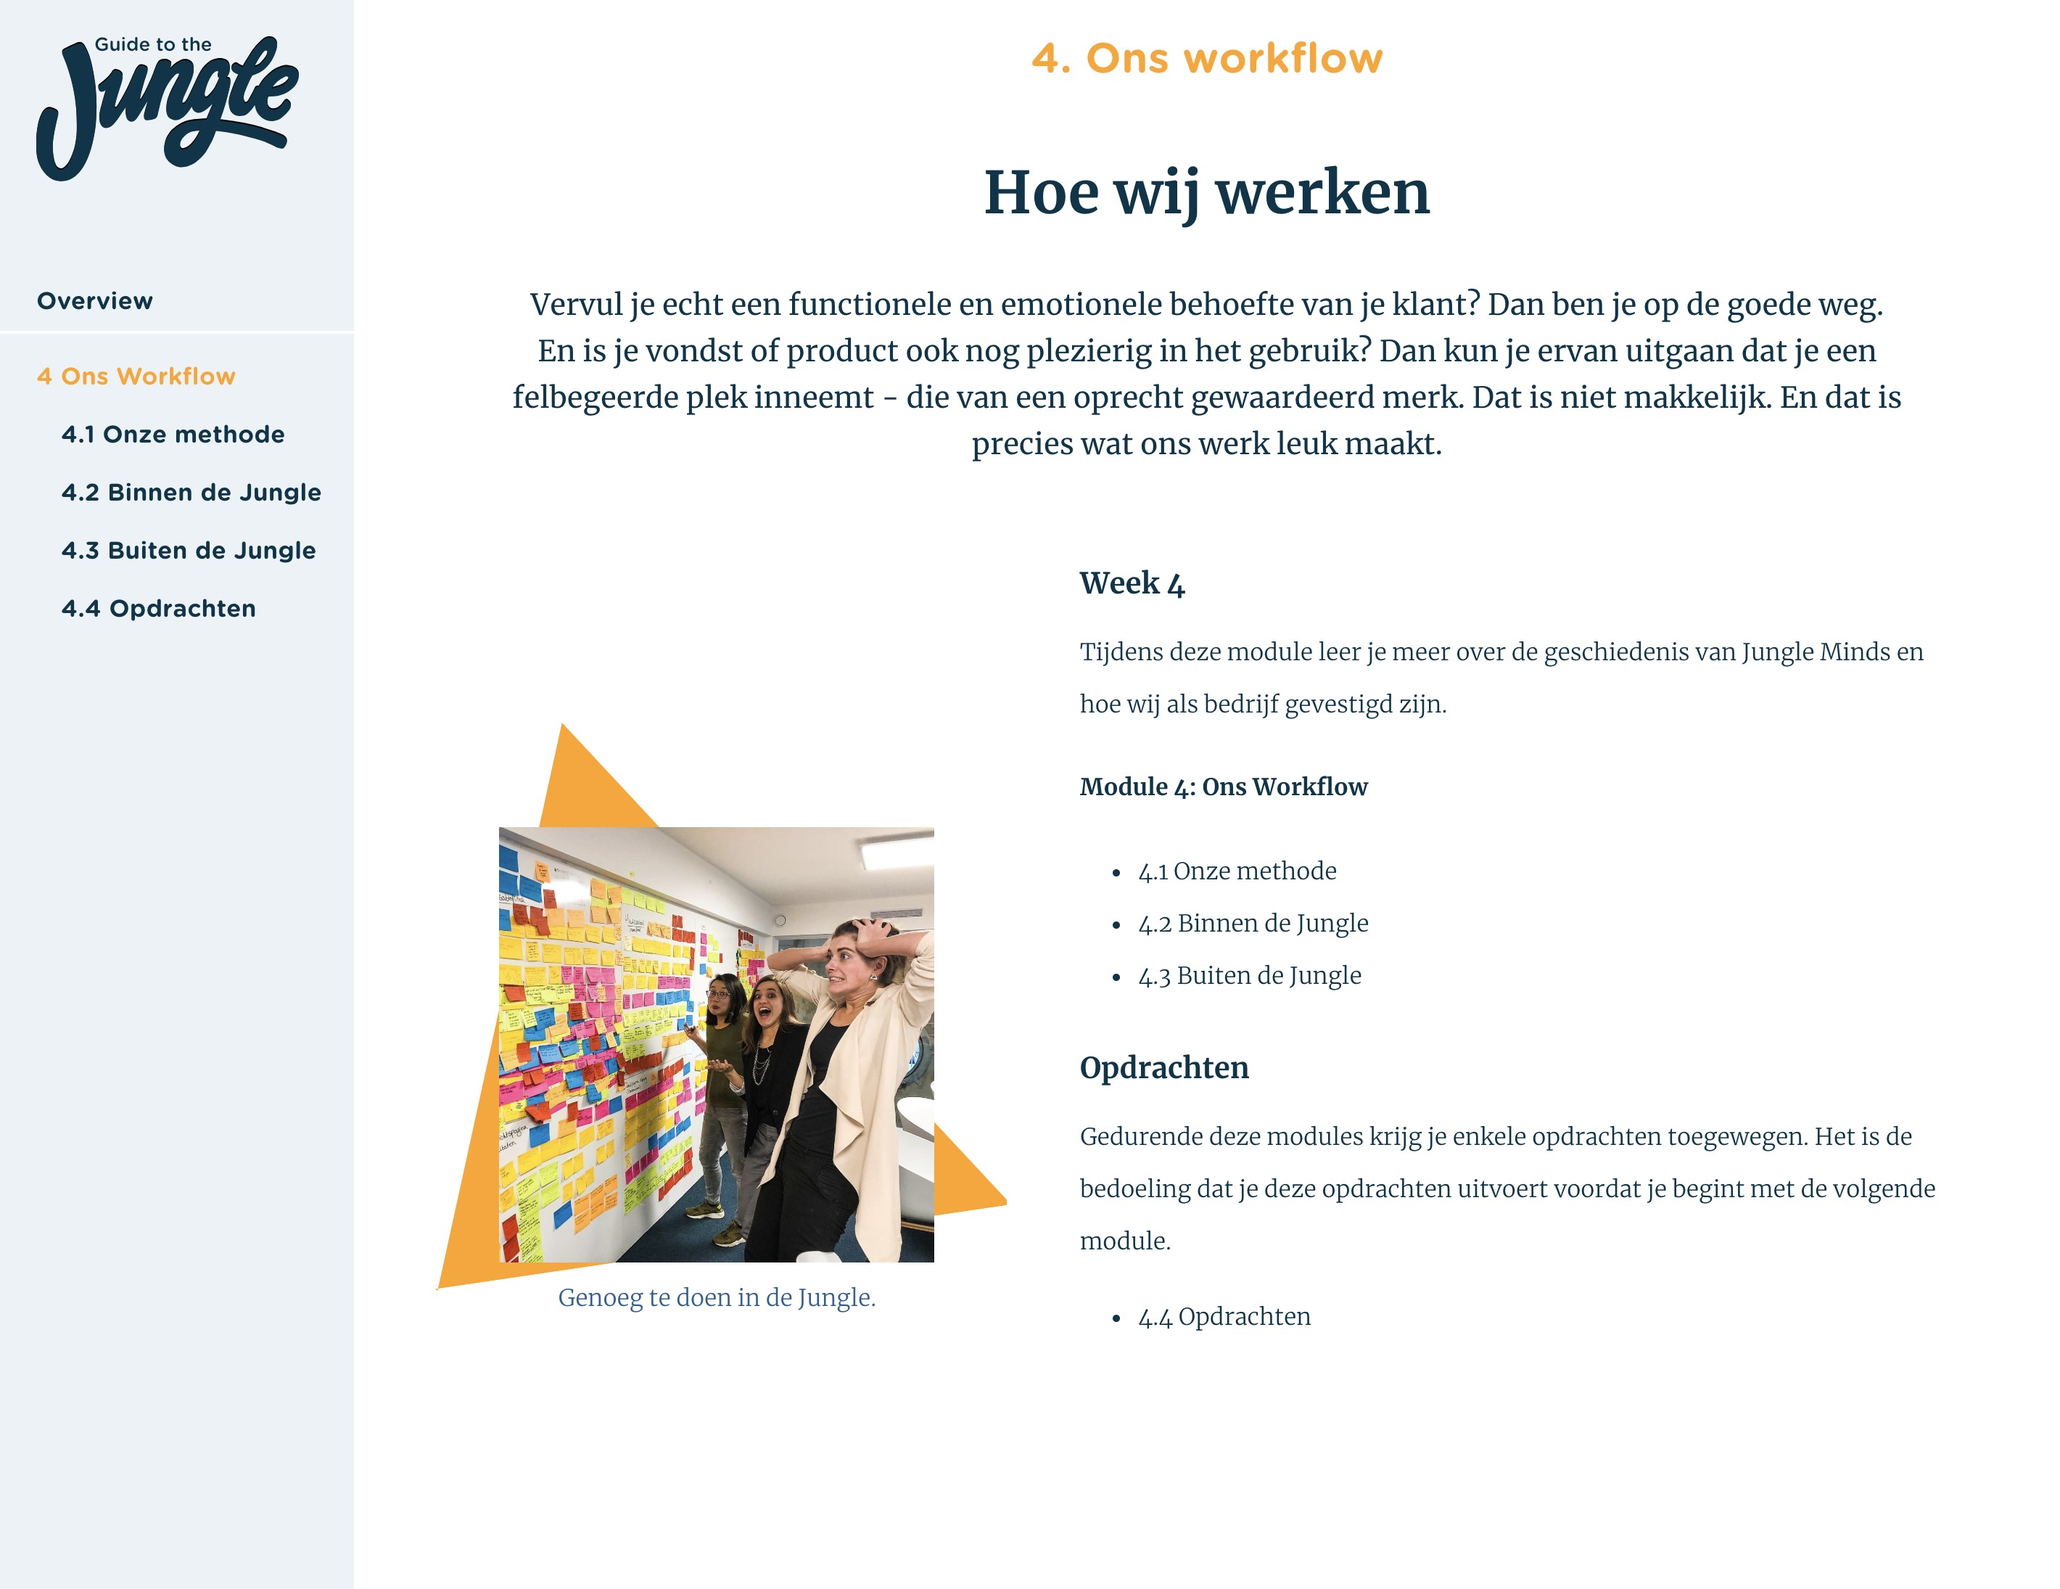
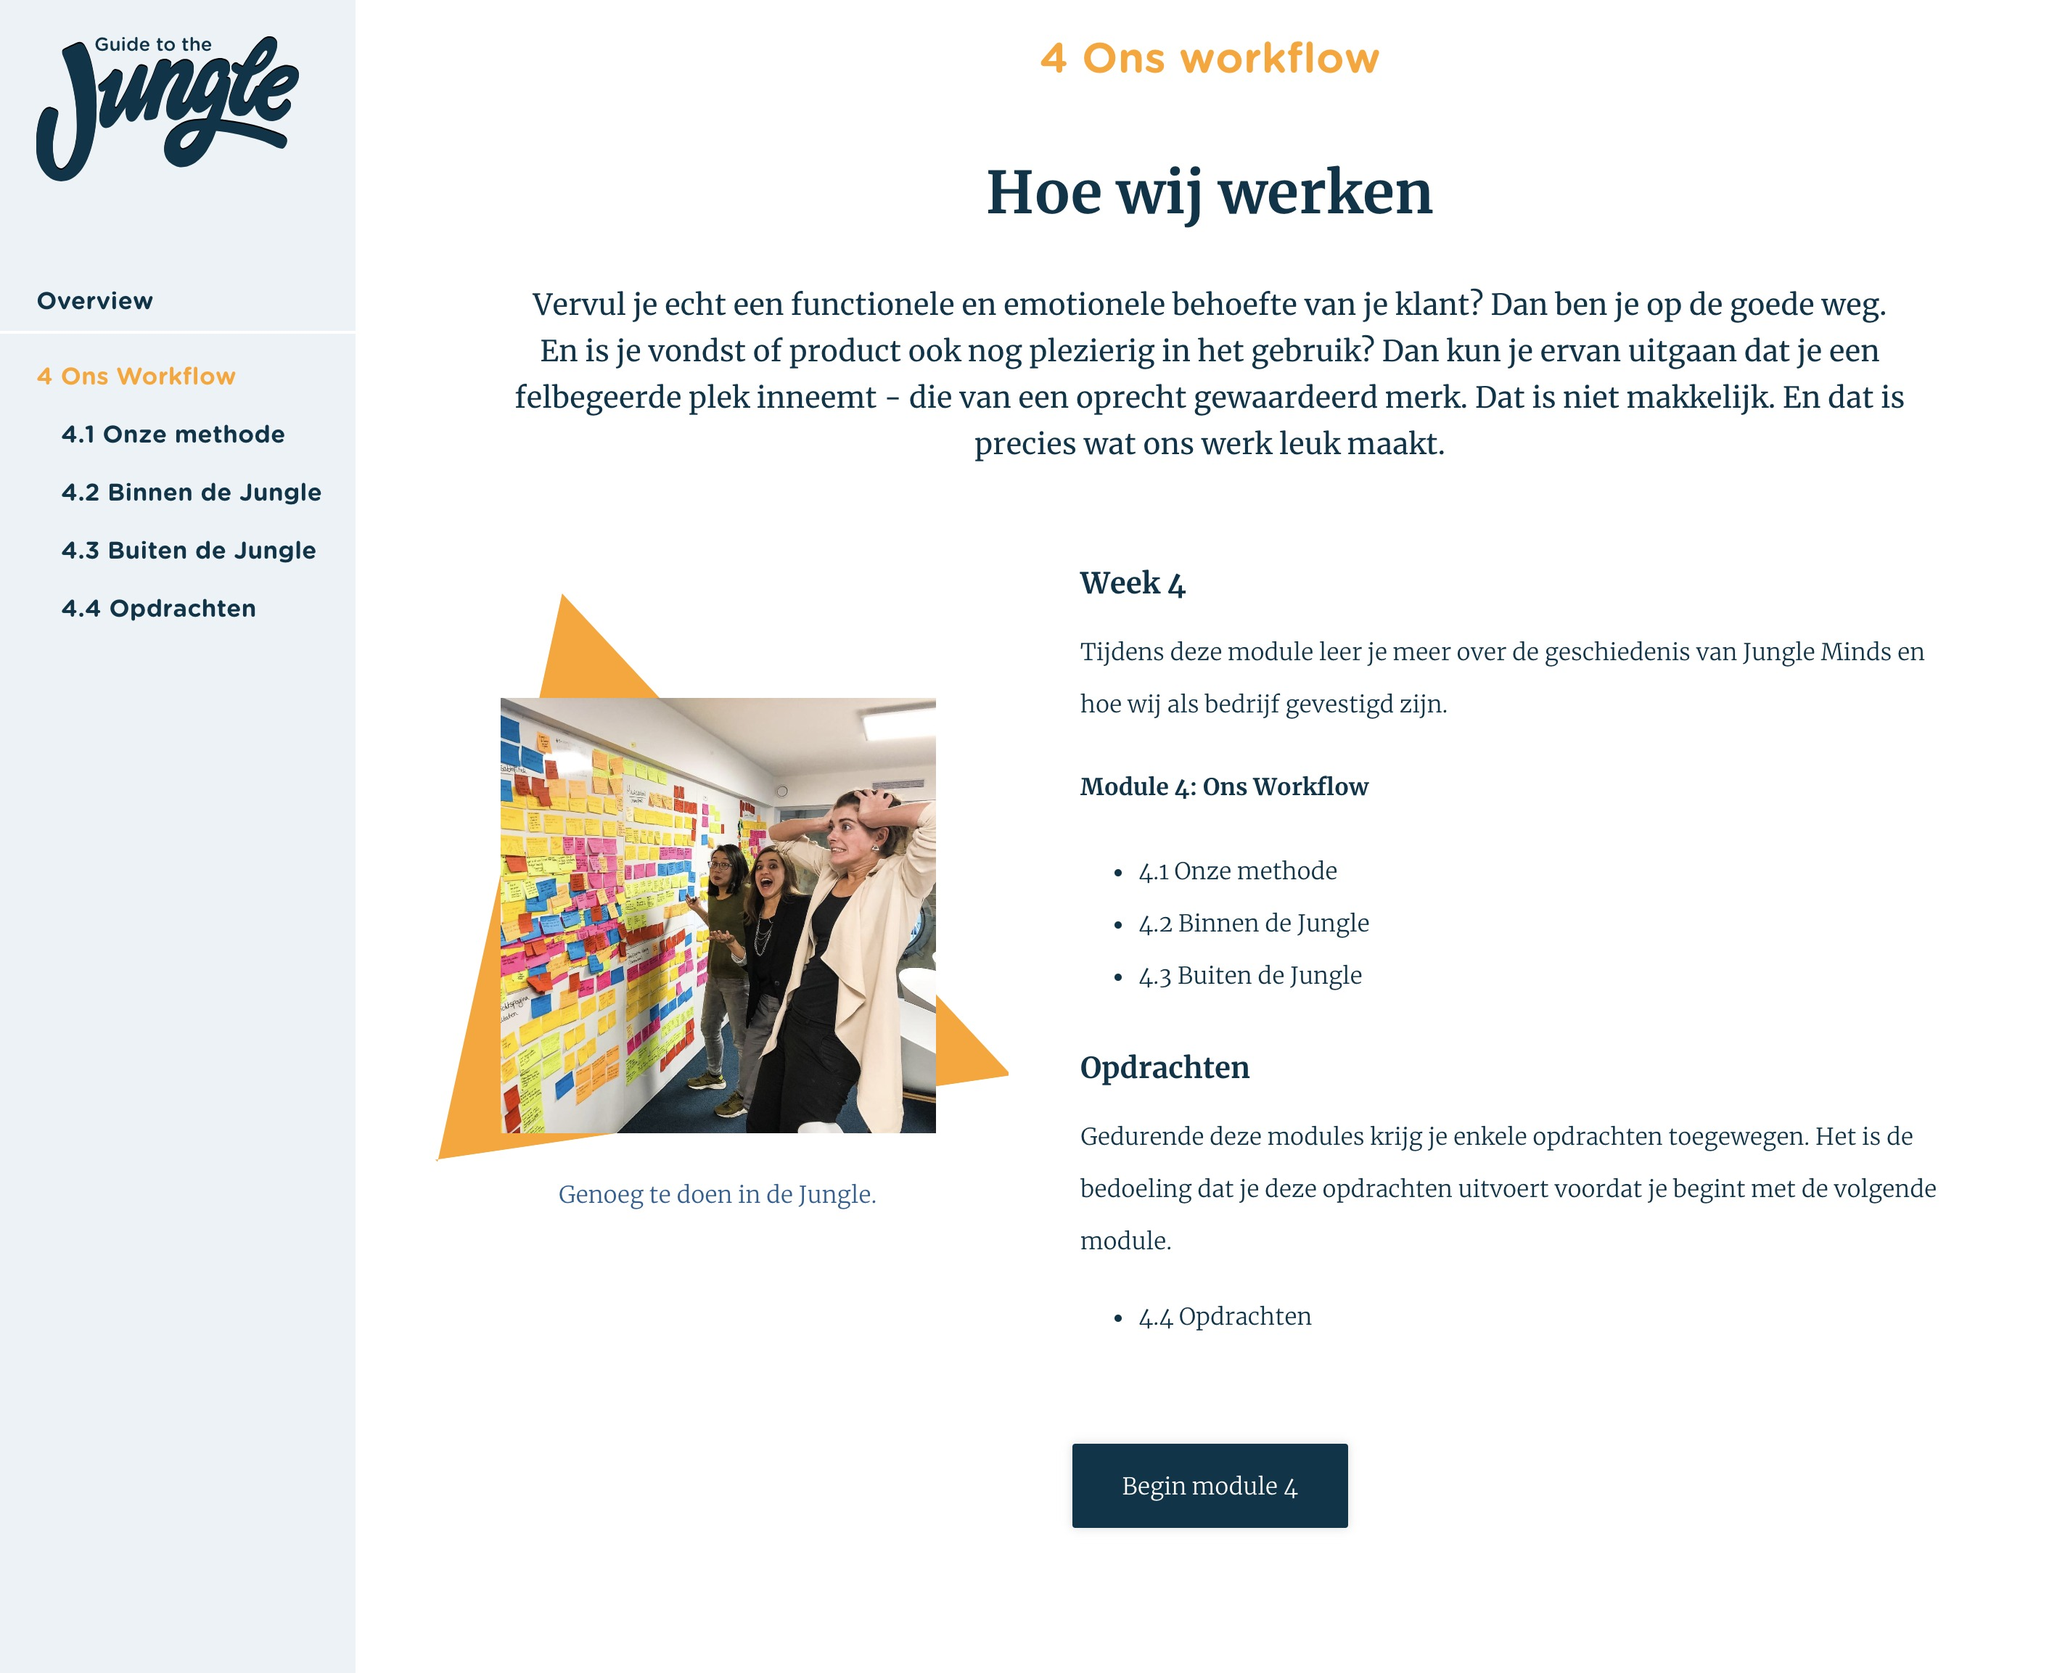
GitBook: [master] 6 pages and 39 assets modified

diff --git a/4.-ontwerpfase/4.6-prototype-v.0.7.md b/4.-ontwerpfase/4.6-prototype-v.0.7.md
@@ -40,44 +40,44 @@ Zie afbeelding 111 tot en met afbeelding 113 voor de weergave van de inhoud van 
 Module 2 gaat over de cultuur van Jungle Minds.  
 Zie afbeelding 114 tot en met afbeelding 116 voor de weergave van de inhoud van module 2.
 
-![Afbeelding 114: ](../.gitbook/assets/module-2.1.png)
+![Afbeelding 114: 2.1 Jungle Formula. ](../.gitbook/assets/module-2.1.png)
 
-![Afbeelding 115:](../.gitbook/assets/module-2.2.png)
+![Afbeelding 115: 2.2 Jungle Days](../.gitbook/assets/module-2.2.png)
 
-![Afbeelding 116:](../.gitbook/assets/module-2.3%20%281%29.png)
+![Afbeelding 116: 2.3 Ontwikkeling](../.gitbook/assets/module-2.3%20%281%29.png)
 
 ### Module 3
 
 Module 3 gaat over de medewerkers van Jungle Minds.  
 Zie afbeelding 117 tot en met afbeelding 119 voor de weergave van de inhoud van module 3.
 
-![Afbeelding 117: ](../.gitbook/assets/module-3.1.png)
+![Afbeelding 117: 3.1 Jungle Familie](../.gitbook/assets/module-3.1.png)
 
-![Afbeelding 118:](../.gitbook/assets/module-3.2.png)
+![Afbeelding 118: 3.2 De Wall Fame](../.gitbook/assets/module-3.2.png)
 
-![Afbeelding 119:](../.gitbook/assets/module-3.3.png)
+![Afbeelding 119: 3.3 De Go To People](../.gitbook/assets/module-3.3.png)
 
 ### Module 4
 
 Module 4 gaat over de cultuur van Jungle Minds.  
 Zie afbeelding 120 tot en met afbeelding 122 voor de weergave van de inhoud van module 4.
 
-![Afbeelding 120:](../.gitbook/assets/module-4.1.jpg)
+![Afbeelding 120: 4.1 Onze Methode](../.gitbook/assets/module-4.1%20%281%29.jpg)
 
-![Afbeelding 121:](../.gitbook/assets/module-4.2.jpg)
+![Afbeelding 121: 4.2 Binnen de Jungle](../.gitbook/assets/module-4.2%20%281%29.jpg)
 
-![Afbeelding 122:](../.gitbook/assets/module-4.3.jpg)
+![Afbeelding 122: 4.3 Buiten de Jungle](../.gitbook/assets/module-4.3%20%281%29.jpg)
 
 ### Module 5
 
 Module 5 gaat over de cultuur van Jungle Minds.  
 Zie afbeelding 123 tot en met afbeelding 125 voor de weergave van de inhoud van module 5.
 
-![Afbeelding 123:](../.gitbook/assets/module-5.1.jpg)
+![Afbeelding 123: 4.4 Opdrachten](../.gitbook/assets/module-5.1%20%281%29.jpg)
 
-![Afbeelding 124:](../.gitbook/assets/module-5.2.jpg)
+![Afbeelding 124: 5.3 Portfolio](../.gitbook/assets/module-5.2.jpg)
 
-![Afbeelding 125:](../.gitbook/assets/module-5.3.jpg)
+![Afbeelding 125: Toekomst](../.gitbook/assets/module-5.3%20%281%29.jpg)
 
   
 
@@ -86,11 +86,16 @@ Zie afbeelding 123 tot en met afbeelding 125 voor de weergave van de inhoud van 
 
 ## Technisch
 
-Voor het 
+Om mijn profilering te kunnen uitoefenen en beter te worden in het coderen met React heb ik besloten om de laatste versies van het prototype te gaan coderen. Dit was ook van toegevoegde waarde voor het bedrijf, omdat Jungle Minds vaak minder tijd heeft voor interne projecten. Als het bedrijf beslist om dit product daadwerkelijk te gaan gebruiken hoeven ze niet van nul te beginnen, maar hebben ze al een goede basis staan in de programmeertaal die de developers van het bedrijf gebruiken.
 
-Code:[React Router: Declarative Routing for ReactLearn once, Route Anywherereacttraining.com](https://reacttraining.com/react-router/web/api/NavLink)
+De prototype is gemaakt in [React](https://reactjs.org/), een JavaScript library. Zelf had ik sinds dit jaar Januari pas leren werken met React, dus het was voor mij ook een uitdaging om mijn hele prototype hiermee te moeten coderen. Echter, zag ik deze kans als een mooie moment om een nieuwe taal te leren, aangezien het bedrijf heir gebruik van maakt. 
 
-Navigation menu &lt;NavLink&gt; \(https://reacttraining.com/react-router/web/api/NavLink\)
+Tijdens mijn stage heb ik meegewerkt aan het coderen van [Digital Maturity](https://digitalmaturity.jungleminds.nl/) website die enkele elementen gebruikt van de nieuwe huisstijl van Jungle Minds. Dus enkele componenten van de website heb ik gebruikt voor mijn prototype.
+
+Daarnaast heb ik ook gebruik gemaakt van de twee libraries voor het coderen van de tijdline van Module 1:
+
+* [https://github.com/oliviertassinari/react-swipeable-view](https://github.com/oliviertassinari/react-swipeable-views)
+* [https://github.com/sherubthakur/react-horizontal-timeline](https://github.com/sherubthakur/react-horizontal-timeline)
 
 ## Usability testing
 
@@ -106,4 +111,6 @@ Uit de [testresultaten](../6.5-prototype-tests/6.5.5-usability-testing-v.0.7.md)
 ### conclusie
 
 De belangrijkste bevinding uit de Usability testing is dat de flow van de tool goed wordt begrepen en ervaren. Echter zijn er sommige onderdelen van de tool die beter moeten ogen, onderdelen als de zelfstandig opdrachten en de FAQ vakje. Zie "[3.3 Inspiratie patters](../3.-concept/3.3-inspiratie-patterns.md#patterns-voor-v-0-5-greater-than)" voor mijn onderzoek naar de patterns van deze elementen. 
+
+Daarnaast was tijdens de test aangegeven dat de gebruikers een miniquiz van het behandelde stof zouden fijn vinden om te controleren of ze de informatie wel goed hebben begrepen. Ook vroegen ze om een extra scherm tussen de overzicht pagina en de eerste pagina van de module's content. Dit om het voor de gebruikers het overzichtelijker te maken.
 

diff --git a/4.-ontwerpfase/4.7-prototype-v.0.9.md b/4.-ontwerpfase/4.7-prototype-v.0.9.md
@@ -2,94 +2,113 @@
 
 ## Prototype
 
+Uit mijn bevindingen van de [Usability testing van prototype v.0.7](../6.5-prototype-tests/6.5.5-usability-testing-v.0.7.md) heb ik vernomen dat ze een introductiescherm wilden hebben per module. In deze scherm wilden ze een korte introductie lezen over de stof die behandeld zal worden in de module. Daarnaast willen ze ook de module kunnen afsluiten met een quiz.
 
+Zie hieronder de nieuwe schermen die erbij zijn gekomen naast de al bestande schermen van [prototype v.0.7](4.6-prototype-v.0.7.md). Van elke module is er een module introductie pagina toegevoegd en de quiz per module.
 
-### Overzicht
+### Module introductie
 
+De module introductie bestaat uit de volgende componenten:
 
+* Pagina titel
+* Onderwerp titel
+* Introductie tekst
+* Samenvatting van de stof van de module
+  * Subtitel
+  * Tekst
+  * Module afbeelding
 
-![Afbeelding](../.gitbook/assets/overview.png)
+### Module quiz
 
-### FAQ
+De module quiz bestaat uit de volgende componenten:
 
+* Pagina titel
+* Onderwerp titel
+* Introductie tekst
+* Zelfstandige opdrachten
+  * section titel
+  * Vragen van de module
+* Quiz 
+  * Section titel
+  * Vragen 
+  * Multiple choice antwoorden.
 
-
-
-
-![Afbeelding](../.gitbook/assets/faq.jpg)
-
-
+## Afbeedingen
 
 ### Module 1
 
+Zie afbeelding 126 voor de introductie pagina van module 1.
 
+![Afbeelding 126: 1 Jungle Minds](../.gitbook/assets/module-1.png)
 
-![](../.gitbook/assets/module-1.png)
+Zie afbeelding 127 voor de afsluiting quiz van module 1.
 
-![](../.gitbook/assets/module-1.1.png)
-
-![](../.gitbook/assets/module-1.2.png)
-
-![](../.gitbook/assets/module-1.3.png)
-
-![](../.gitbook/assets/module-1.4.png)
+![Afbeelding 127: 1.4 Opdrachten](../.gitbook/assets/module-1.4.png)
 
 ### Module 2
 
+Zie afbeelding 126 voor de introductie pagina van module 1.
 
+![Afbeelding 128: 2 De Jungle Cultuur](../.gitbook/assets/module-2.png)
 
-![](../.gitbook/assets/module-2.png)
+Zie afbeelding 127 voor de afsluiting quiz van module 1.
 
-![](../.gitbook/assets/module-2.1.png)
-
-![](../.gitbook/assets/module-2.2.png)
-
-![](../.gitbook/assets/module-2.3%20%281%29.png)
-
-![](../.gitbook/assets/module-2.4.png)
+![Afbeelding 129: 2.4 Opdrachten](../.gitbook/assets/module-2.4.png)
 
 ### Module 3
 
+Zie afbeelding 126 voor de introductie pagina van module 1.
 
+![Afbeelding 130: 3 Ons Team](../.gitbook/assets/module-3.png)
 
-![](../.gitbook/assets/module-3.png)
+Zie afbeelding 127 voor de afsluiting quiz van module 1.
 
-![](../.gitbook/assets/module-3.1.png)
-
-![](../.gitbook/assets/module-3.2.png)
-
-![](../.gitbook/assets/module-3.3.png)
-
-![](../.gitbook/assets/module-3.4%20%281%29.png)
+![Afbeelding 131: 3.4 Opdrachten](../.gitbook/assets/module-3.4%20%281%29.png)
 
 ### Module 4
 
+Zie afbeelding 126 voor de introductie pagina van module 1.
 
+![Afbeelding 132: 4 Ons workflow](../.gitbook/assets/module-4%20%281%29.jpg)
 
-![](../.gitbook/assets/module-4.jpg)
+Zie afbeelding 127 voor de afsluiting quiz van module 1.
 
-![](../.gitbook/assets/module-4.1.jpg)
-
-![](../.gitbook/assets/module-4.2.jpg)
-
-![](../.gitbook/assets/module-4.3.jpg)
-
-![](../.gitbook/assets/module-4.4.jpg)
+![Afbeelding 133: 4.4 Opdrachten](../.gitbook/assets/module-4.4%20%281%29.jpg)
 
 ### Module 5
 
+Zie afbeelding 126 voor de introductie pagina van module 1.
+
+![Afbeelding 134: 5 Ons Klanten](../.gitbook/assets/module-5%20%281%29.jpg)
+
+Zie afbeelding 127 voor de afsluiting quiz van module 1.
+
+![Afbeelding 135: 5.4 Opdrachten](../.gitbook/assets/module-5.4%20%281%29.jpg)
+
+## Usability testing
 
 
-![](../.gitbook/assets/module-5.jpg)
 
-![](../.gitbook/assets/module-5.1.jpg)
+### Conclusie
 
-![](../.gitbook/assets/module-5.2.jpg)
 
-![](../.gitbook/assets/module-5.3.jpg)
 
-![](../.gitbook/assets/module-5.4.jpg)
+## Expert review
 
-  
+Deze prototype heb ik door middel van een [Expert review](../6.5-prototype-tests/6.5.4-expert-review-v0.5.md) getest met een van de visual designers van Jungle Minds. Ik wilde de laatste aanpassingen vanuit de usability testing controleren met de design en de laatste puntjes op de i zetten, wat design betreft.
+
+Uit deze expert review heb ik de volgende inzichten gekregen:
+
+* Denk aan de componenten goed uitlijnen met elkaar.
+* Denk aan gebruik maken wit ruimte.
+* 
+De content moet in weken verdeeld worden.
+
+* Er moet een indicatie komen van progressie.
+* De introductiescherm moet een invulveld bevatten voor naam en startdatum.
+* Er moeten opdrachten komen tussen de informatie door.
+
+### Conclusie
+
 
 

diff --git a/6.5-prototype-tests/6.5.5-usability-testing-v.0.7.md b/6.5-prototype-tests/6.5.5-usability-testing-v.0.7.md
@@ -87,6 +87,7 @@ Steven is de andere personen die een potentiële doelgroep ging voorstelen. Hij 
 Uit de testresultaten van de medewerkers van Jungle Minds kreeg ik de volgende belangrijke inzichten:
 
 * Er is veel meer tekst dan plaatjes, echter ervoeren de testers het niet als vervelend om te lezen. Door de teksten verdeeld is in verschillende hoofdstukken oogt het minder te zijn waardoor je makkelijker doorheen leest.
+* Het module begin en met een kleine samenvatting van wat je kan verwachten tijdens de module.
 * De verhalen over de ervaringen van collega’s binnen projecten of gebeurtenisen van Jungle Minds was onverwacht voor de medewerkers. Echter, vonden ze het erg leuk om te lezen. Hierdoor kregen ze nieuwe inzichten van collega’s.
 * De twee testpersonen gaven aan dat ze veel informatie herkende van de website of het “Welkom to the Jungle” boekje. Echter, gaven ze ook aan dat niet elke nieuwe medewerker van deze informatie bronnen bewust is.Ondanks dat veel informatie te vinden was op de website of het boekje, vonden de testpersonen dat de informatie van de gids informatiever en uitgebreider was en dat ze meer inzichten kregen doordat de toegevoegde elementen als foto’s, quote’s en tijdslijn. 
 * Testers gaven het idee om elke module te sluiten met een mini quiz. Ze gaven aan dat het dan veel serieuzer wordt genomen en dat de informatie die wordt verteld beter blijft hangen.
@@ -94,4 +95,6 @@ Uit de testresultaten van de medewerkers van Jungle Minds kreeg ik de volgende b
 ### conclusie
 
 De belangrijkste bevinding uit de Usability testing is dat de flow van de tool goed wordt begrepen en ervaren. Echter zijn er sommige onderdelen van de tool die beter moeten ogen, onderdelen als de zelfstandig opdrachten en de FAQ vakje. Zie "[3.3 Inspiratie patters](../3.-concept/3.3-inspiratie-patterns.md#patterns-voor-v-0-5-greater-than)" voor mijn onderzoek naar de patterns van deze elementen. 
+
+Daarnaast was tijdens de test aangegeven dat de gebruikers een miniquiz van het behandelde stof zouden fijn vinden om te controleren of ze de informatie wel goed hebben begrepen. Ook vroegen ze om een extra scherm tussen de overzicht pagina en de eerste pagina van de module's content. Dit om het voor de gebruikers het overzichtelijker te maken.
 

diff --git a/4.-ontwerpfase/4.8-prototype-v.1.0.md b/4.-ontwerpfase/4.8-prototype-v.1.0.md
@@ -4,27 +4,79 @@
 
 ### Overzicht
 
-
+![](../.gitbook/assets/overview%20%281%29.jpg)
 
 ### FAQ
 
+![](../.gitbook/assets/faq%20%281%29.jpg)
 
+![](../.gitbook/assets/faq-open.jpg)
 
 ### Module 1
 
 
 
+![](../.gitbook/assets/module-1.jpg)
+
+![](../.gitbook/assets/module-1.1.jpg)
+
+![](../.gitbook/assets/module-1.2.jpg)
+
+![](../.gitbook/assets/module-1.3.jpg)
+
+![](../.gitbook/assets/module-1.4.jpg)
+
 ### Module 2
 
 
 
+![](../.gitbook/assets/module-2.jpg)
+
+![](../.gitbook/assets/module-2.1.jpg)
+
+![](../.gitbook/assets/module-2.2.jpg)
+
+![](../.gitbook/assets/module-2.3.jpg)
+
+![](../.gitbook/assets/module-2.4.jpg)
+
 ### Module 3
 
+![](../.gitbook/assets/module-3.jpg)
 
+![](../.gitbook/assets/module-3.1.jpg)
+
+![](../.gitbook/assets/module-3.2.jpg)
+
+![](../.gitbook/assets/module-3.3.jpg)
+
+![](../.gitbook/assets/module-3.4.jpg)
 
 ### Module 4
 
+![](../.gitbook/assets/module-4.jpg)
 
+![](../.gitbook/assets/module-4.1.jpg)
+
+![](../.gitbook/assets/module-4.2.jpg)
+
+![](../.gitbook/assets/module-4.3.jpg)
+
+![](../.gitbook/assets/module-4.4.jpg)
 
 ### Module 5
+
+![](../.gitbook/assets/module-5.jpg)
+
+![](../.gitbook/assets/module-5.1.jpg)
+
+![](../.gitbook/assets/module-5.2%20%281%29.jpg)
+
+![](../.gitbook/assets/module-5.3.jpg)
+
+![](../.gitbook/assets/module-5.4.jpg)
+
+![](../.gitbook/assets/module-5.5.jpg)
+
+![](../.gitbook/assets/end.jpg)
 

diff --git a/3.-concept/3.5-het-concept.md b/3.-concept/3.5-het-concept.md
@@ -105,7 +105,7 @@ Wanneer de Jungle Minds onboarding tool gebruik wil ik getest worden op de infor
 
 Op afbeelding 68 ziet u de belangrijkste scherm van dit prototype voor deze jobstory.
 
-![Afbeelding 68: Er is een quiz toegevoegd aan prototype v.0.9.](../.gitbook/assets/module-4.4.jpg)
+![Afbeelding 68: Er is een quiz toegevoegd aan prototype v.0.9.](../.gitbook/assets/module-4.4%20%281%29.jpg)
 
 ### Risk analyse
 

diff --git a/4.-ontwerpfase/4.9-conclusie.md b/4.-ontwerpfase/4.9-conclusie.md
@@ -1,4 +1,24 @@
 # 4.10 Conclusie
 
-3 deel vragen beantwoorden en design challenge 
+## Deelvragen
+
+### Deelvraag 1
+
+
+
+### Deelvraag 2
+
+
+
+### Deelvraag 3
+
+
+
+## Design challenge
+
+
+
+
+
+
 
